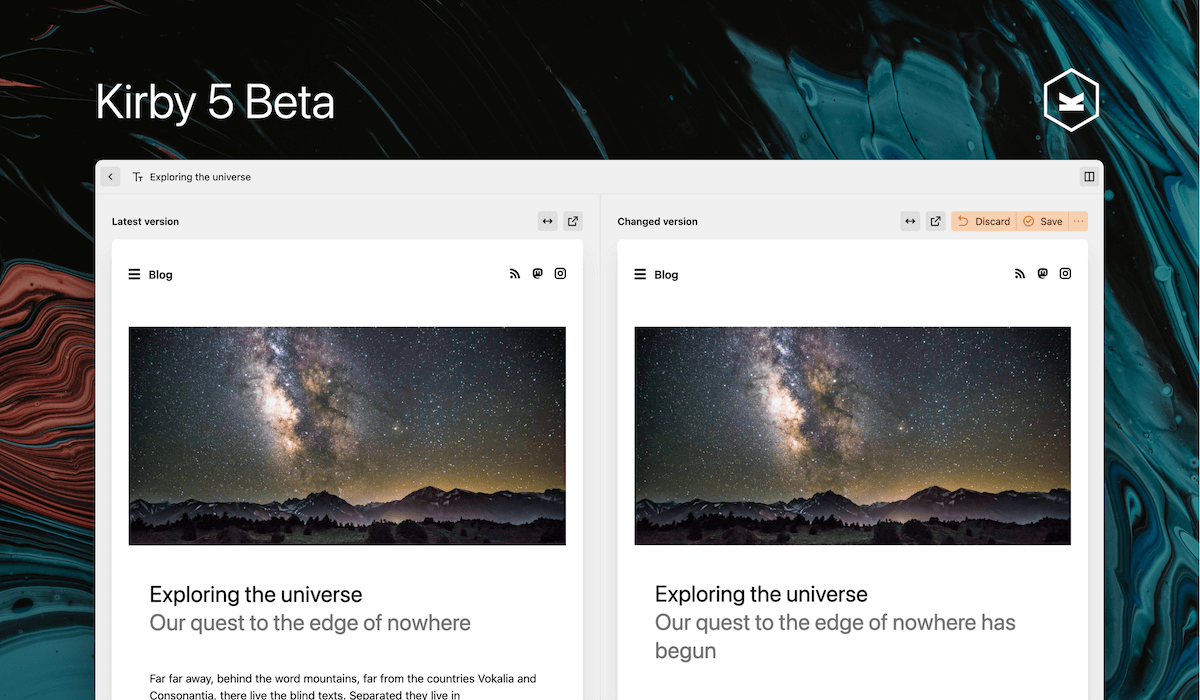
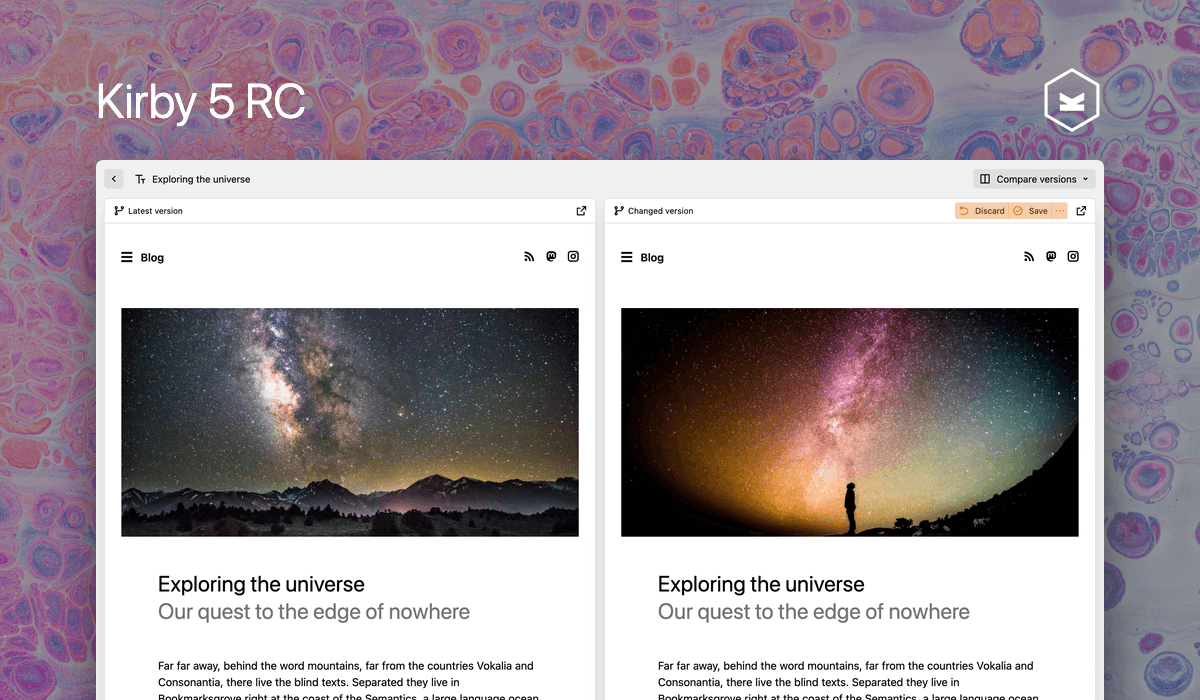
Update opengraph images and release overview

diff --git a/site/templates/releases.php b/site/templates/releases.php
@@ -13,7 +13,7 @@
 						<h2 class="h2">
 							<?= $release->version() ?>
 							<?php if ($release->prerelease()->isNotEmpty()): ?>
-								<span class="color-gray-600">Beta</span>
+								<span class="color-gray-600"><?= $release->prerelease() ?></span>
 							<?php endif ?>
 						</h2>
 					</header>
